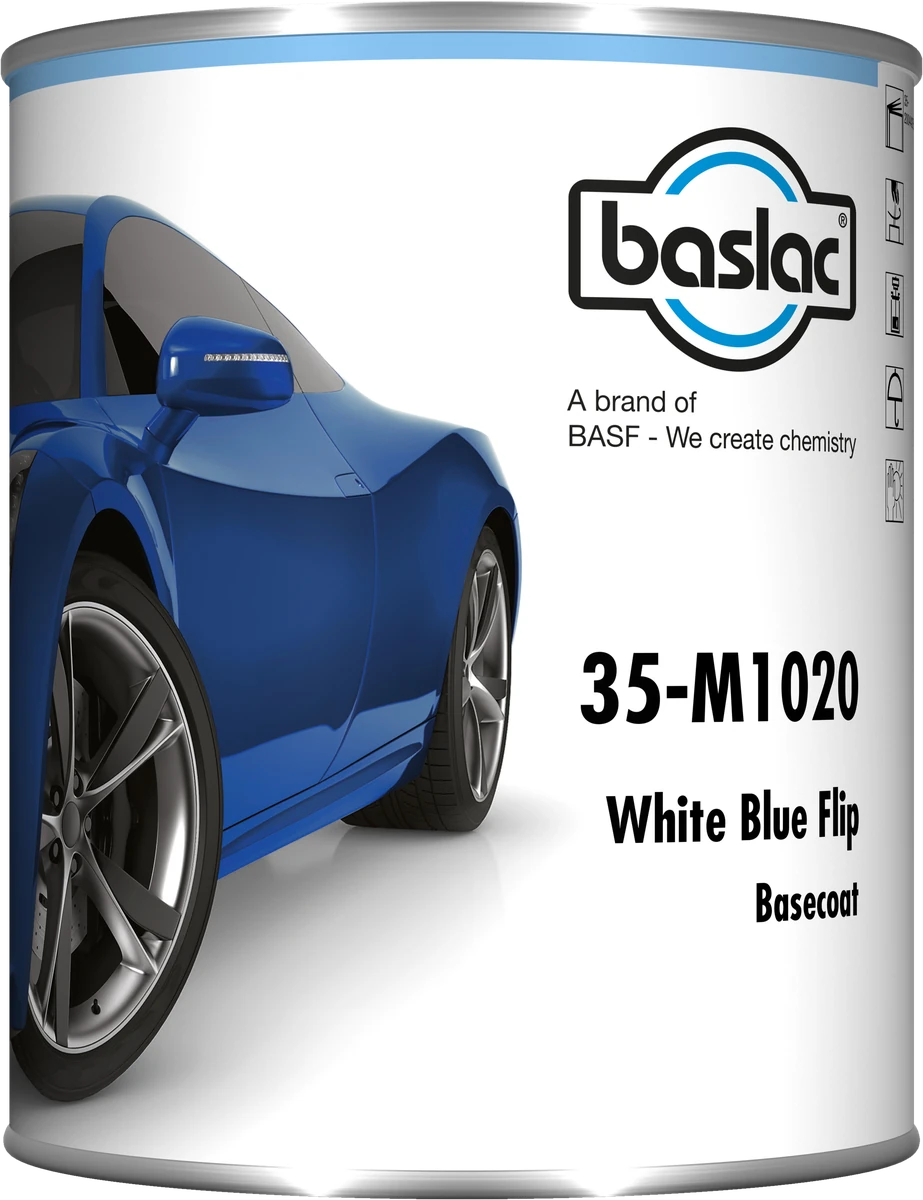
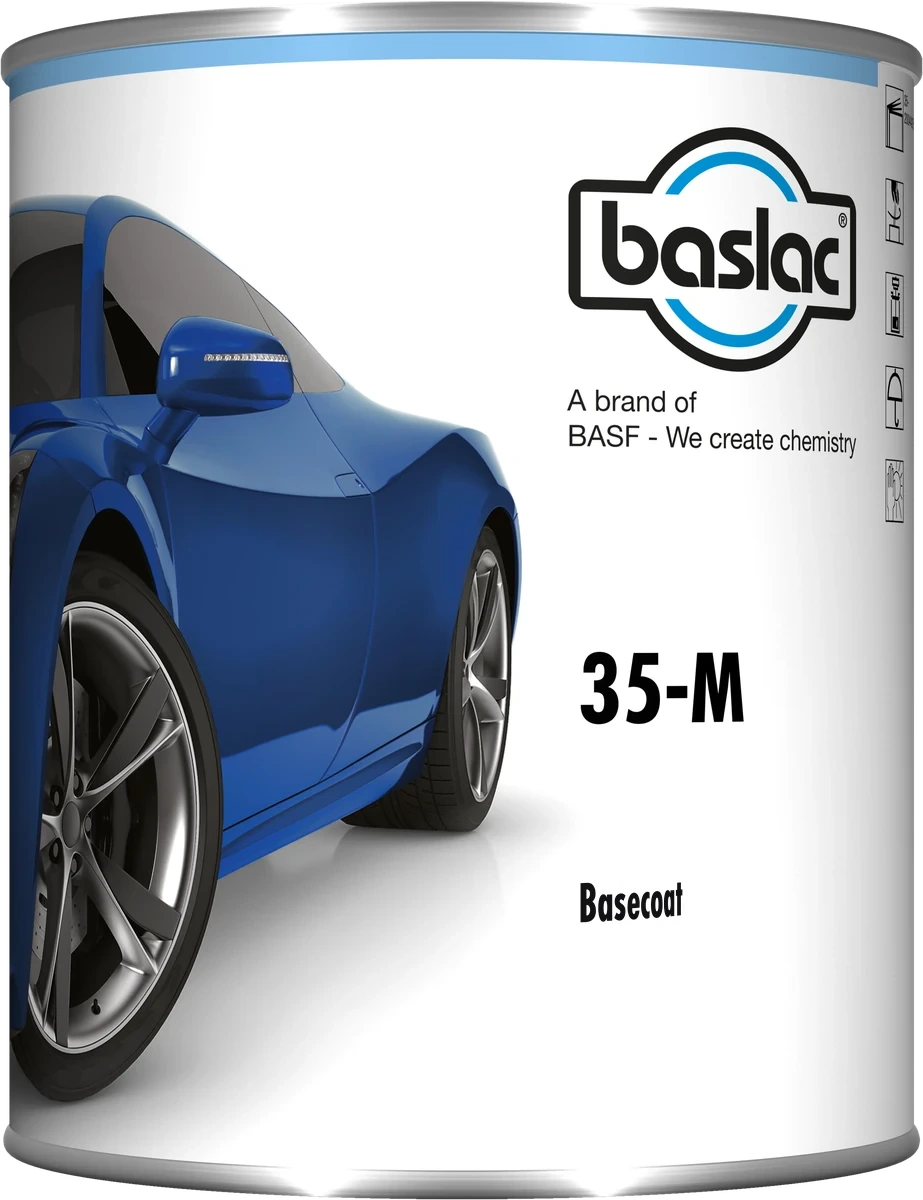
fix(slike): baslac limenke bez šifre i naziva nijanse, samo oznaka serije

diff --git a/lib/baslac-systems.ts b/lib/baslac-systems.ts
@@ -577,9 +577,9 @@ export type BaslacAssetSlot = {
   /** Očekivani naziv fajla kada slot bude popunjen. */
   expectedFilename: string;
   /**
-   * Šifra baze koja se vidi na etiketi reprezentativne fotografije (2026-10-21). Baslac portal
-   * za 1 L / 0,5 L / 5 L / 0,1 L ima samo fotografije sa šifrom jedne baze; koristi se jedna
-   * fotografija po sistemu i zapremini, a strana kaže koja je baza na fotografiji.
+   * Šifra baze koja se vidi na etiketi reprezentativne fotografije, kada je ima. Od 2026-10-30
+   * fotografije 1 L / 0,5 L / 5 L / 0,1 L su retuširane na oznaku serije (35-M, 45-W, 30-S),
+   * kao 3,5 L limenka, pa nijedan slot ne nosi šifru. Polje ostaje za buduće fotografije sa šifrom.
    */
   shownCode?: string;
   /** Surventis Brand Portal asset (hub 54), izvor fotografije. */
@@ -588,15 +588,15 @@ export type BaslacAssetSlot = {
 
 const ASSET_SLOTS: BaslacAssetSlot[] = [
   { slotId: "line-30:3.5l", system: "line-30", volumeL: 3.5, src: "/products/baslac/baslac--line-30-3.5l-family-packshot.webp", expectedFilename: "baslac--line-30-3.5l-family-packshot.png" },
-  { slotId: "line-30:1l", system: "line-30", volumeL: 1, src: "/products/baslac/baslac--line-30-1l-representative.webp", shownCode: "30-S110", portalAssetId: 12114, expectedFilename: "baslac--line-30-1l-family-packshot.png" },
+  { slotId: "line-30:1l", system: "line-30", volumeL: 1, src: "/products/baslac/baslac--line-30-1l-representative.webp", portalAssetId: 12114, expectedFilename: "baslac--line-30-1l-family-packshot.png" },
   { slotId: "line-30-cv:3.5l", system: "line-30-cv", volumeL: 3.5, src: "/products/baslac/baslac--line-30-3.5l-family-packshot.webp", expectedFilename: "baslac--line-30-3.5l-family-packshot.png" },
   { slotId: "line-35:3.5l", system: "line-35", volumeL: 3.5, src: "/products/baslac/baslac--line-35-3.5l-family-packshot.webp", expectedFilename: "baslac--line-35-3.5l-family-packshot.png" },
-  { slotId: "line-35:1l", system: "line-35", volumeL: 1, src: "/products/baslac/baslac--line-35-1l-representative.webp", shownCode: "35-M1020", portalAssetId: 12115, expectedFilename: "baslac--line-35-1l-family-packshot.png" },
-  { slotId: "line-35:0.5l", system: "line-35", volumeL: 0.5, src: "/products/baslac/baslac--line-35-0.5l-representative.webp", shownCode: "35-M1120", portalAssetId: 12092, expectedFilename: "baslac--line-35-0.5l-family-packshot.png" },
-  { slotId: "line-45:5l", system: "line-45", volumeL: 5, src: "/products/baslac/baslac--line-45-5l-representative.webp", shownCode: "45-W00", portalAssetId: 12081, expectedFilename: "baslac--line-45-5l-family-packshot.png" },
-  { slotId: "line-45:1l", system: "line-45", volumeL: 1, src: "/products/baslac/baslac--line-45-1l-representative.webp", shownCode: "45-W1010", portalAssetId: 12121, expectedFilename: "baslac--line-45-1l-family-packshot.png" },
-  { slotId: "line-45:0.5l", system: "line-45", volumeL: 0.5, src: "/products/baslac/baslac--line-45-0.5l-representative.webp", shownCode: "45-W1020", portalAssetId: 12094, expectedFilename: "baslac--line-45-0.5l-family-packshot.png" },
-  { slotId: "line-45:0.1l", system: "line-45", volumeL: 0.1, src: "/products/baslac/baslac--line-45-0.1l-representative.webp", shownCode: "45-W1390", portalAssetId: 12088, expectedFilename: "baslac--line-45-0.1l-concentrate-packshot.png" },
+  { slotId: "line-35:1l", system: "line-35", volumeL: 1, src: "/products/baslac/baslac--line-35-1l-representative.webp", portalAssetId: 12115, expectedFilename: "baslac--line-35-1l-family-packshot.png" },
+  { slotId: "line-35:0.5l", system: "line-35", volumeL: 0.5, src: "/products/baslac/baslac--line-35-0.5l-representative.webp", portalAssetId: 12092, expectedFilename: "baslac--line-35-0.5l-family-packshot.png" },
+  { slotId: "line-45:5l", system: "line-45", volumeL: 5, src: "/products/baslac/baslac--line-45-5l-representative.webp", portalAssetId: 12081, expectedFilename: "baslac--line-45-5l-family-packshot.png" },
+  { slotId: "line-45:1l", system: "line-45", volumeL: 1, src: "/products/baslac/baslac--line-45-1l-representative.webp", portalAssetId: 12121, expectedFilename: "baslac--line-45-1l-family-packshot.png" },
+  { slotId: "line-45:0.5l", system: "line-45", volumeL: 0.5, src: "/products/baslac/baslac--line-45-0.5l-representative.webp", portalAssetId: 12094, expectedFilename: "baslac--line-45-0.5l-family-packshot.png" },
+  { slotId: "line-45:0.1l", system: "line-45", volumeL: 0.1, src: "/products/baslac/baslac--line-45-0.1l-representative.webp", portalAssetId: 12088, expectedFilename: "baslac--line-45-0.1l-concentrate-packshot.png" },
 ];
 
 export function baslacAssetSlot(
